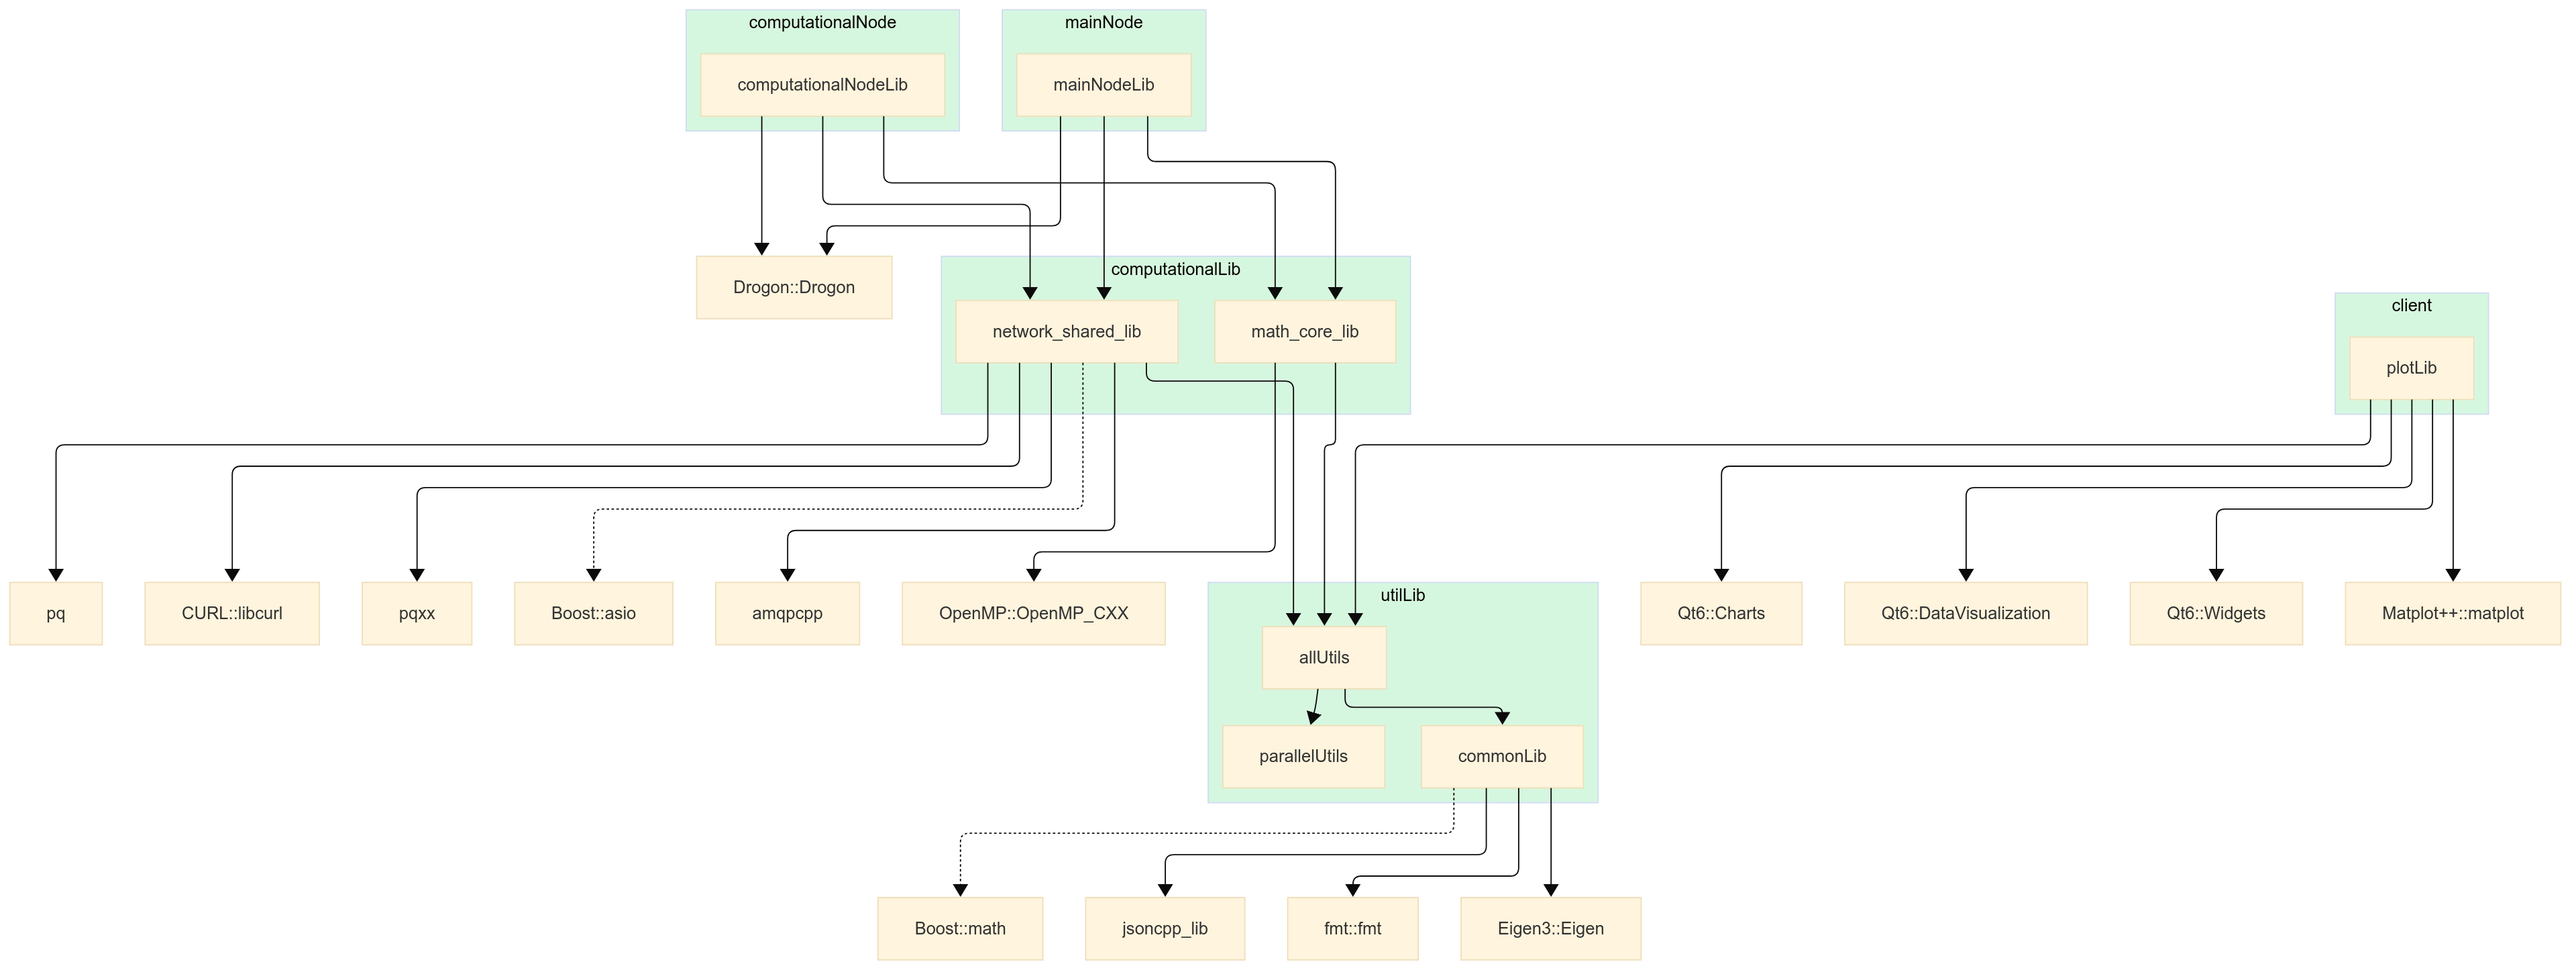
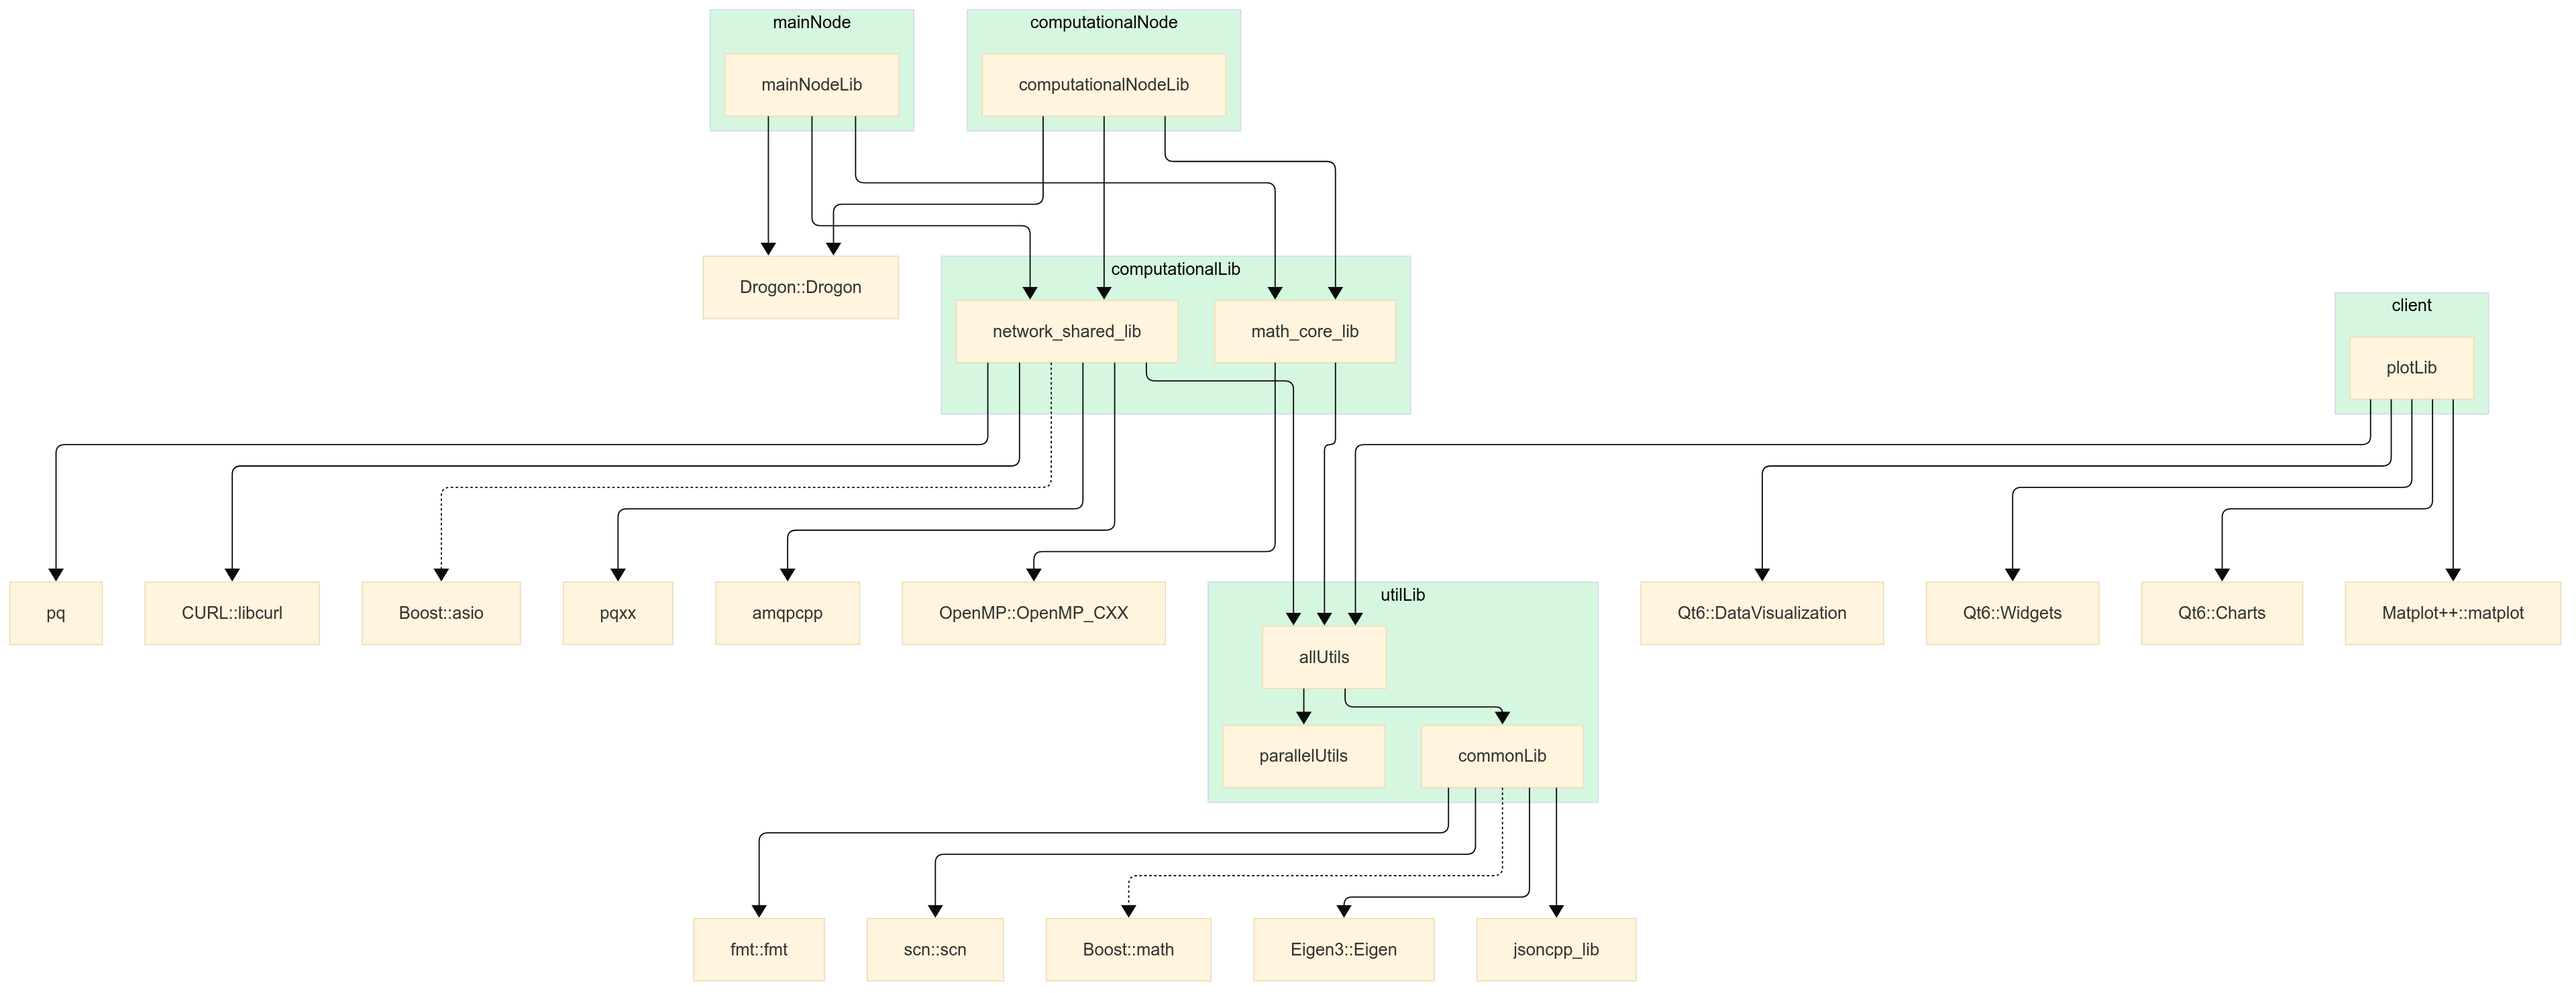
Fix scan error: use UrlDecode to replace delims, so that the can be processed as words for scan to parse. Update dependencyList.m and .png.

diff --git a/doc/mermaid/dependencyList.m b/doc/mermaid/dependencyList.m
@@ -1,37 +1,37 @@
 ---
 config:
-  look: classic
-  layout: elk
-  theme: base
+look: classic
+    layout: elk
+    theme: base
 ---
 flowchart TD
- subgraph utilLib["utilLib"]
-        parallelUtils["parallelUtils"]
-        commonLib["commonLib"]
-        allUtils["allUtils"]
-  end
- subgraph computationalLib["computationalLib"]
-        math_core_lib["math_core_lib"]
-        network_shared_lib["network_shared_lib"]
-  end
- subgraph computationalNode["computationalNode"]
-        computationalNodeLib["computationalNodeLib"]
-  end
- subgraph client["client"]
-        plotLib["plotLib"]
-  end
- subgraph mainNode["mainNode"]
-        mainNodeLib["mainNodeLib"]
-  end
-    commonLib --> Eigen["Eigen3::Eigen"] & jsoncpp["jsoncpp_lib"] & fmt["fmt::fmt"]
-    commonLib -.-> Math["Boost::math"]
-    allUtils --> commonLib & parallelUtils
+subgraph utilLib["utilLib"]
+parallelUtils["parallelUtils"]
+commonLib["commonLib"]
+allUtils["allUtils"]
+end
+    subgraph computationalLib["computationalLib"]
+math_core_lib["math_core_lib"]
+network_shared_lib["network_shared_lib"]
+end
+    subgraph computationalNode["computationalNode"]
+computationalNodeLib["computationalNodeLib"]
+end
+    subgraph client["client"]
+plotLib["plotLib"]
+end
+    subgraph mainNode["mainNode"]
+mainNodeLib["mainNodeLib"]
+end
+    commonLib --> Eigen["Eigen3::Eigen"] & jsoncpp["jsoncpp_lib"] & fmt["fmt::fmt"] & scn["scn::scn"]
+commonLib -.-> Math["Boost::math"]
+allUtils --> commonLib & parallelUtils
     math_core_lib --> allUtils & OpenMP["OpenMP::OpenMP_CXX"]
-    network_shared_lib --> allUtils & amqpcpp["amqpcpp"] & curl["CURL::libcurl"] & pqxx["pqxx"] & pq["pq"]
-    network_shared_lib -.-> Asio["Boost::asio"]
-    computationalNodeLib --> math_core_lib & Drogon["Drogon::Drogon"] & network_shared_lib
+network_shared_lib --> allUtils & amqpcpp["amqpcpp"] & curl["CURL::libcurl"] & pqxx["pqxx"] & pq["pq"]
+network_shared_lib -.-> Asio["Boost::asio"]
+computationalNodeLib --> math_core_lib & Drogon["Drogon::Drogon"] & network_shared_lib
     plotLib --> allUtils & Matplot["Matplot++::matplot"] & QtCharts["Qt6::Charts"] & QtDataVis["Qt6::DataVisualization"] & QtWidgets["Qt6::Widgets"]
-    mainNodeLib --> math_core_lib & network_shared_lib & Drogon
+mainNodeLib --> math_core_lib & network_shared_lib & Drogon
     style client fill:#D6F7DF
     style computationalNode fill:#D6F7DF
     style utilLib fill:#D6F7DF

diff --git a/computationalLib/lib/network_shared/connectionString.cpp b/computationalLib/lib/network_shared/connectionString.cpp
@@ -61,7 +61,10 @@ std::string PostgreSQLCStr::GetVerboseName() const {
 
 
 void PostgreSQLCStr::FromString(std::string_view s) {
-  auto res=scn::scan<std::string, std::string,std::string,uint,std::string>(s, "postgresql://{}:{}@{}:{}/{}");
+  auto tt= UrlDecode(s);
+  auto res=scn::scan
+      <std::string, std::string,std::string,uint,std::string>
+      (tt, "postgresql   {} {} {} {} {}");
 
   if(!res.has_value()) {
     throw shared::ScanningError(res.error().code(),res.error().msg());
@@ -136,16 +139,28 @@ std::string AMQPSQLCStr::GetVerboseName() const {
 }
 
 void AMQPSQLCStr::FromString(std::string_view s) {
-  char c;
-  auto res=scn::scan<char, std::string,std::string,std::string>(s, "amqp{}://{}:{}@{}/");
+  std::string c,port;
+  auto tt= UrlDecode(s);
+  auto res=scn::scan<std::string, std::string,std::string,std::string,std::string>(tt, "{}   {} {} {} {} ");
   if(!res.has_value()) {
     throw shared::ScanningError(res.error().code(),res.error().msg());
   }
-  std::tie(c,user_, password_, host_port_) =res->values();
-
-  secure_==(c=='s');
+  std::tie(c,user_, password_,host_port_,port) =res->values();
+  host_port_.append(":").append(port);
+  secure_==(c=="amqps");
 
   UpdateFormat();
 
+}
+std::string UrlDecode(std::string_view url) {
+  constexpr const char *kDelimiters = "/@:?&=#";
+  std::string result(url);
+  std::replace_if(result.begin(), result.end(),
+                  [](char c) {
+                    return std::find(kDelimiters, kDelimiters + strlen(kDelimiters), c)
+                        != kDelimiters + strlen(kDelimiters);
+                  },
+                  ' ');
+  return result;
 }
 }

diff --git a/computationalLib/test/network_shared/connectionStringsTests.cpp b/computationalLib/test/network_shared/connectionStringsTests.cpp
@@ -5,19 +5,13 @@
 
 using namespace network_types;
 
-/*
-using Ptype=std::tuple<PostgreSQLCStr>;
-class PostgreSQLCStrTests : public ::testing::TestWithParam<Ptype> {
+
+class ParsingTests : public ::testing::Test {
  public:
 
 };
 
-INSTANTIATE_TEST_SUITE_P(
-    ValidatePrintParse, PostgreSQLCStrTests,
-    ::testing::Values({PostgreSQLCStr("user","pass","host",5432)}),
-    TupleToString<PostgreSQLCStrTests>));*/
-
-TEST(PostgreSQLCStrTests,TestPrintParse)
+TEST_F(ParsingTests,PostgreSQLCStrTest)
 {
   PostgreSQLCStr tt("user","pass","host","dbname",5433);
 
@@ -26,16 +20,16 @@ TEST(PostgreSQLCStrTests,TestPrintParse)
   PostgreSQLCStr tt2;
   tt2.FromString(str);
 
+
   ASSERT_EQ(tt,tt2)<<fmt::format("PostgrSQL strings are different s1="
                                  "\"{}\", s2= \"{}\"",
                                  tt.CStr(),
                                  tt2.CStr());
 }
 
-
-TEST(AMQPSQLCStrTest,TestPrintParse)
+TEST_F(ParsingTests,AMQPSQLCStrTest)
 {
-  AMQPSQLCStr tt("user","pass","host:12", true);
+  AMQPSQLCStr tt("host:12","user","pass", true);
 
   auto str=tt.CStr();
 

diff --git a/utilLib/include/common/errorHandling.h b/utilLib/include/common/errorHandling.h
@@ -173,6 +173,7 @@ DEFINE_EXCEPTION_IN(Broken_Connection, "Service {} is unable to connect to {}!",
 
 using ScanErrorCode = decltype(scn::scan_error::code::value_negative_overflow);
 
+
 static inline const char* ScanErrorCodeToString(ScanErrorCode c) {
   switch (c) {
     case scn::scan_error::end_of_input: return "end_of_input";
@@ -192,11 +193,6 @@ static inline const char* ScanErrorCodeToString(ScanErrorCode c) {
 }
 
 
-
-/*auto format_as(ScanErrorCode c)
-{
-  return fmt::format_to(ctx.out(), "{}", ScanErrorCodeToString(c));
-}*/
 
 /**
  * @brief ScanningError error class

diff --git a/computationalLib/include/network_shared/connectionString.h b/computationalLib/include/network_shared/connectionString.h
@@ -8,6 +8,13 @@
 /// Namespace for network related types
 namespace network_types {
 
+/**
+ * @brief Replaces all url delimiters with spaces for scanf parsing
+ * @param url
+ * @see  PostgreSQLCStr::FromString
+ * @see  AMQPSQLCStr::FromString
+ */
+std::string UrlDecode(std::string_view url);
 
 /// us it for verbose names
 /**
